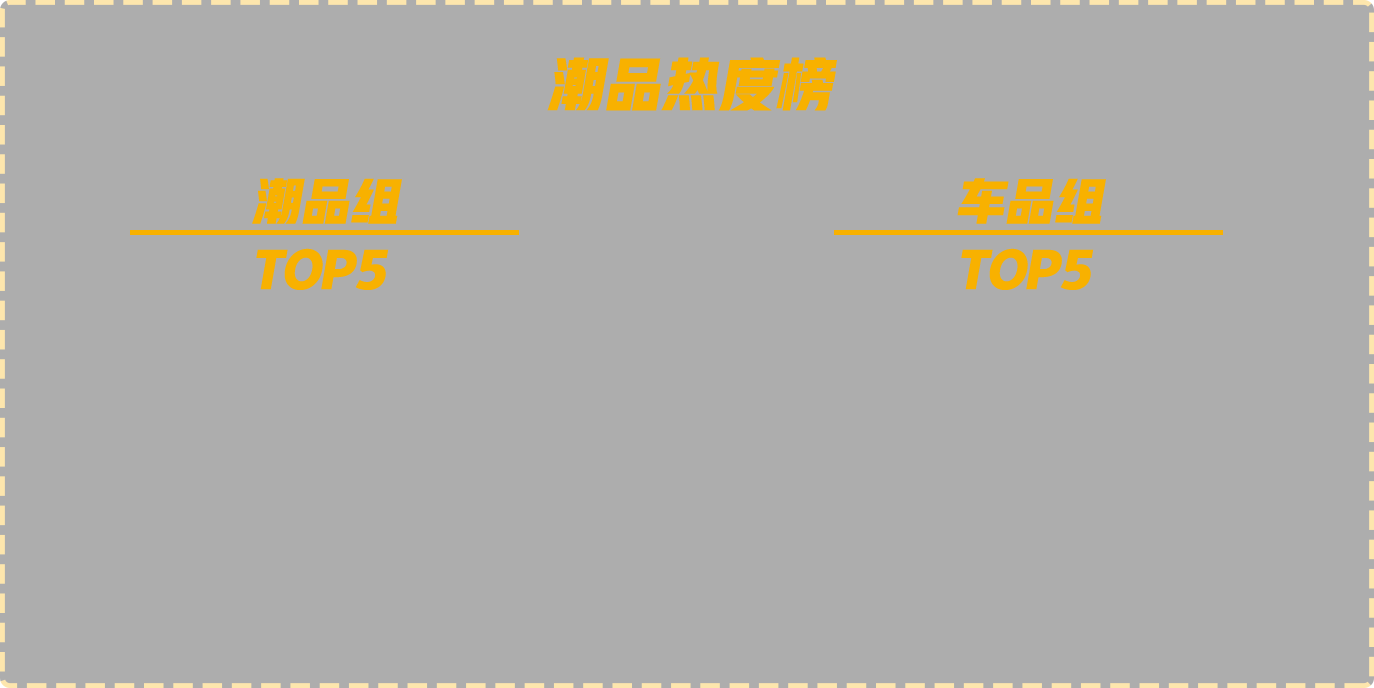
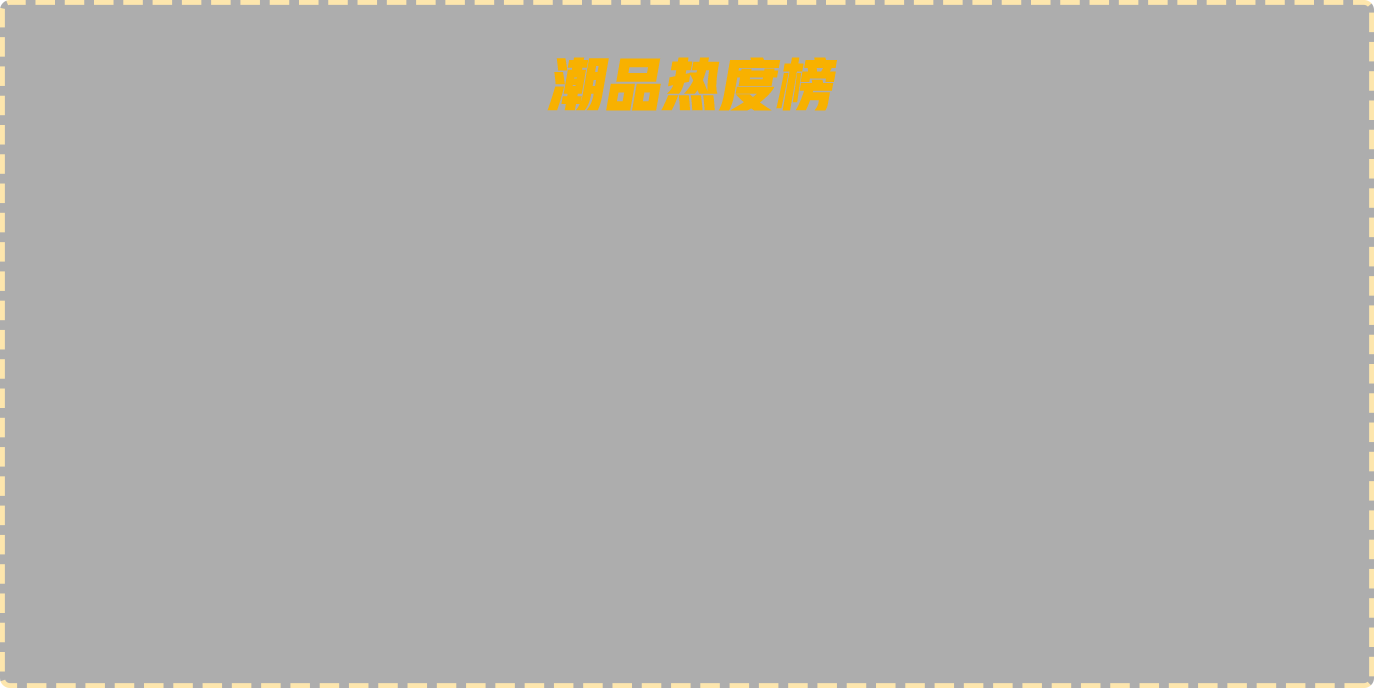
更新

Changed region(s): [[0.6114, 0.2442, 0.8865, 0.4273], [0.0917, 0.2442, 0.3668, 0.4273]]

diff --git a/index.html b/index.html
@@ -16,6 +16,26 @@
     <a href="javascript:void(0)" class="btns wytp" id="votes"></a>
     <a href="javascript:void(0)" data-reveal-id="subModal"  class="btns hdjs"></a>
     <a href="https://www.dongfeng-nissan.com.cn/car/lannia" class="ljgd"></a>
+    <div class="rdb">
+        <div class="rdb-bg">
+            <div class="clearfix">
+                <div  class="rdb-left" >
+                    <h1>潮品组</h1>
+                    <div class="border"></div>
+                    <h1>TOP10</h1>
+                    <ul id="chaopin">
+                    </ul>
+                </div>
+                <div  class="rdb-right">
+                    <h1>车品组</h1>
+                    <div class="border"></div>
+                    <h1>TOP10</h1>
+                    <ul id="chepin">
+                    </ul>
+                </div>
+            </div>
+        </div>
+    </div>
 </div>
 <!--活动介绍-->
 <div id="subModal" class="reveal-modal large modal-size" style="padding: 0;" data-reveal>
@@ -87,6 +107,26 @@
   var uploadUrl = "http://118.190.76.178:8080/image-server/uploadImage?mediaType=Picture&module=L";
   var imgUrl="http://118.190.76.178:8080/image-server/imageThumbnail?relUrl="
   var groups, photo;
+  $.ajax({
+      type:'get',
+      url:baseUrl+"rest/ranking?page=10",
+      cache:false,
+      dataType:'json',
+      success:function(data){
+          var chao = JSON.parse(data.returnValue).chao
+          for(var i = 0; i<chao.length; i++){
+              var industry = chao[i];
+              var chaoLi="<li class='clearfix'> <span class='left'>"+industry.signupid+"号作品</span> <span class='right'>"+industry.votenumber+"票</span> </li>"
+              $("#chaopin").append(chaoLi);
+          }
+          var che = JSON.parse(data.returnValue).che
+          for(var i = 0; i<che.length; i++){
+              var industry = che[i];
+              var cheLi="<li class='clearfix'> <span class='left'>"+industry.signupid+"号作品</span> <span class='right'>"+industry.votenumber+"票</span> </li>"
+              $("#chepin").append(cheLi)
+          }
+      }
+  });
   $(document).ready(function() {
     $(document).foundation({
       reveal: {
@@ -231,7 +271,8 @@
     });
   })
   $("#signUp").click(function () {
-    $('#formModal').foundation('reveal', 'open');
+      alert("报名活动已结束")
+    // $('#formModal').foundation('reveal', 'open');
   })
   $("#votes").click(function () {
     location.href="voteList.html"
